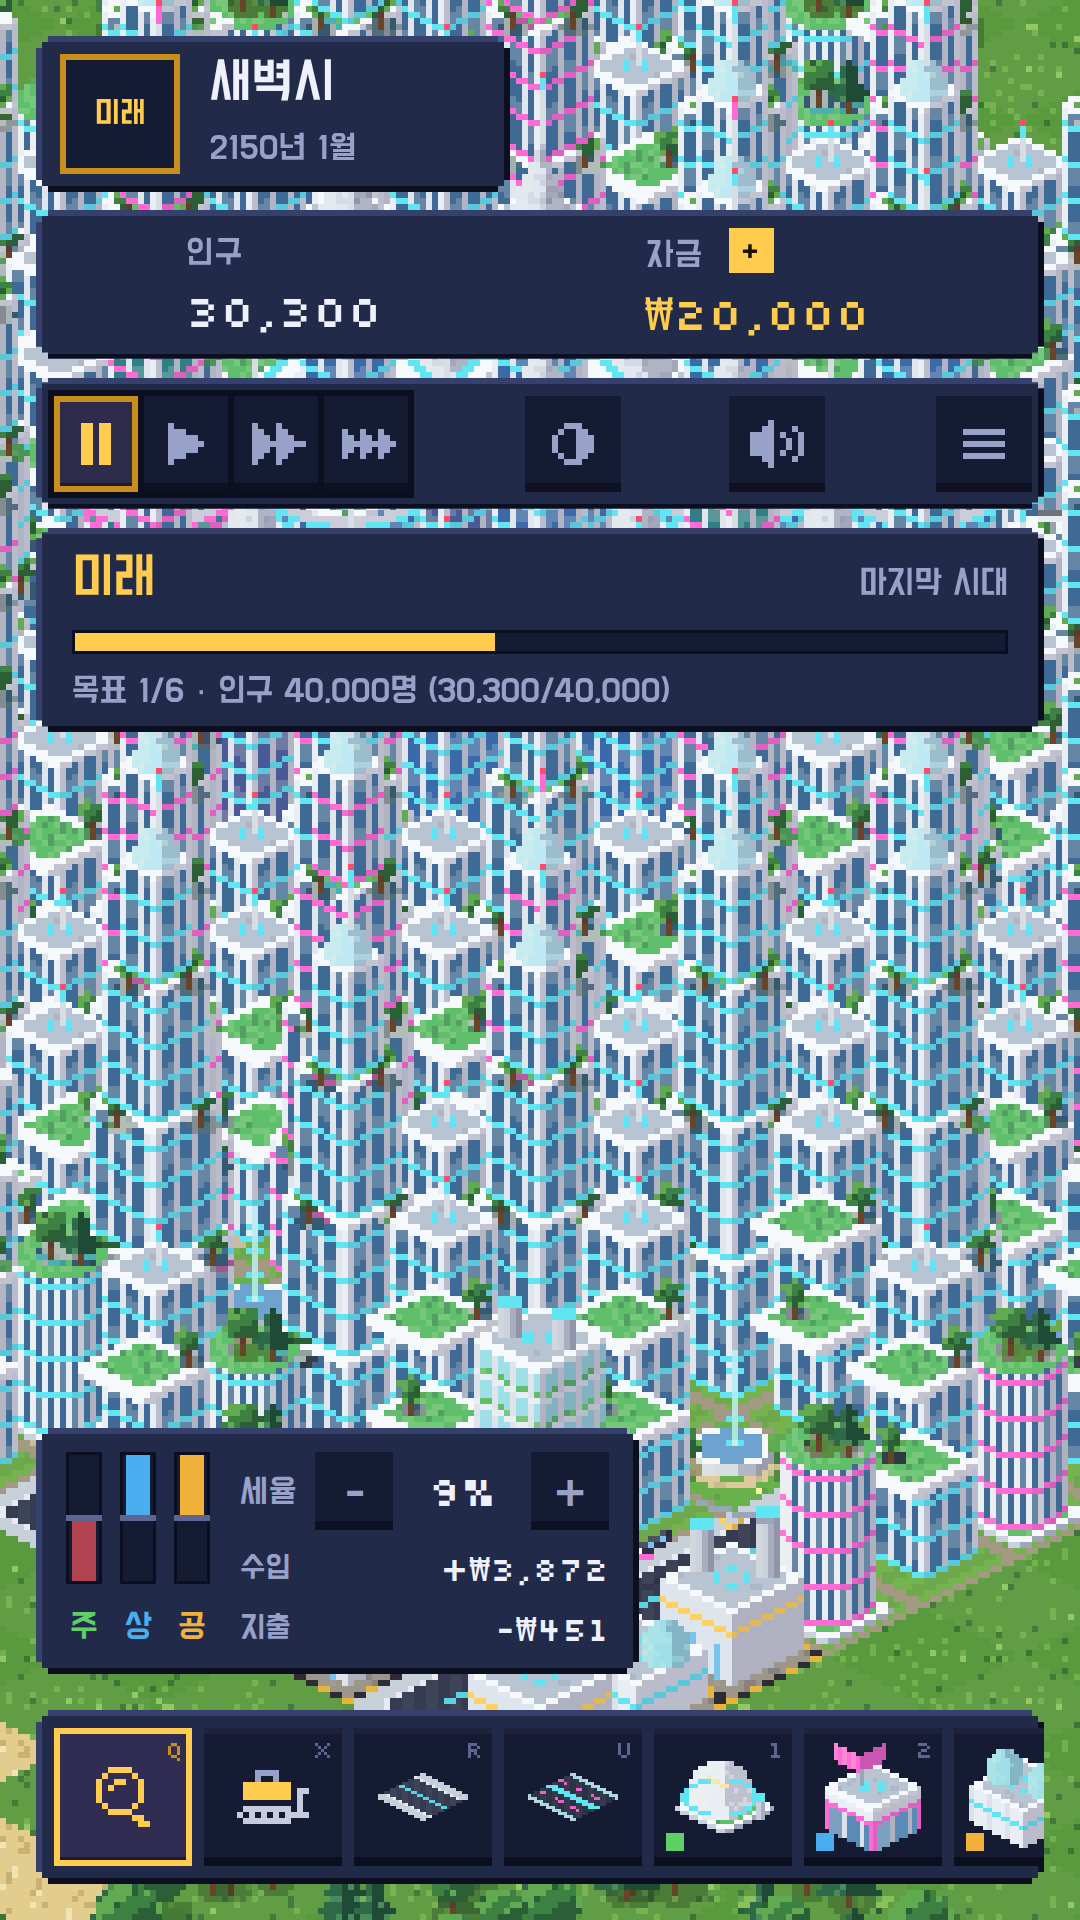
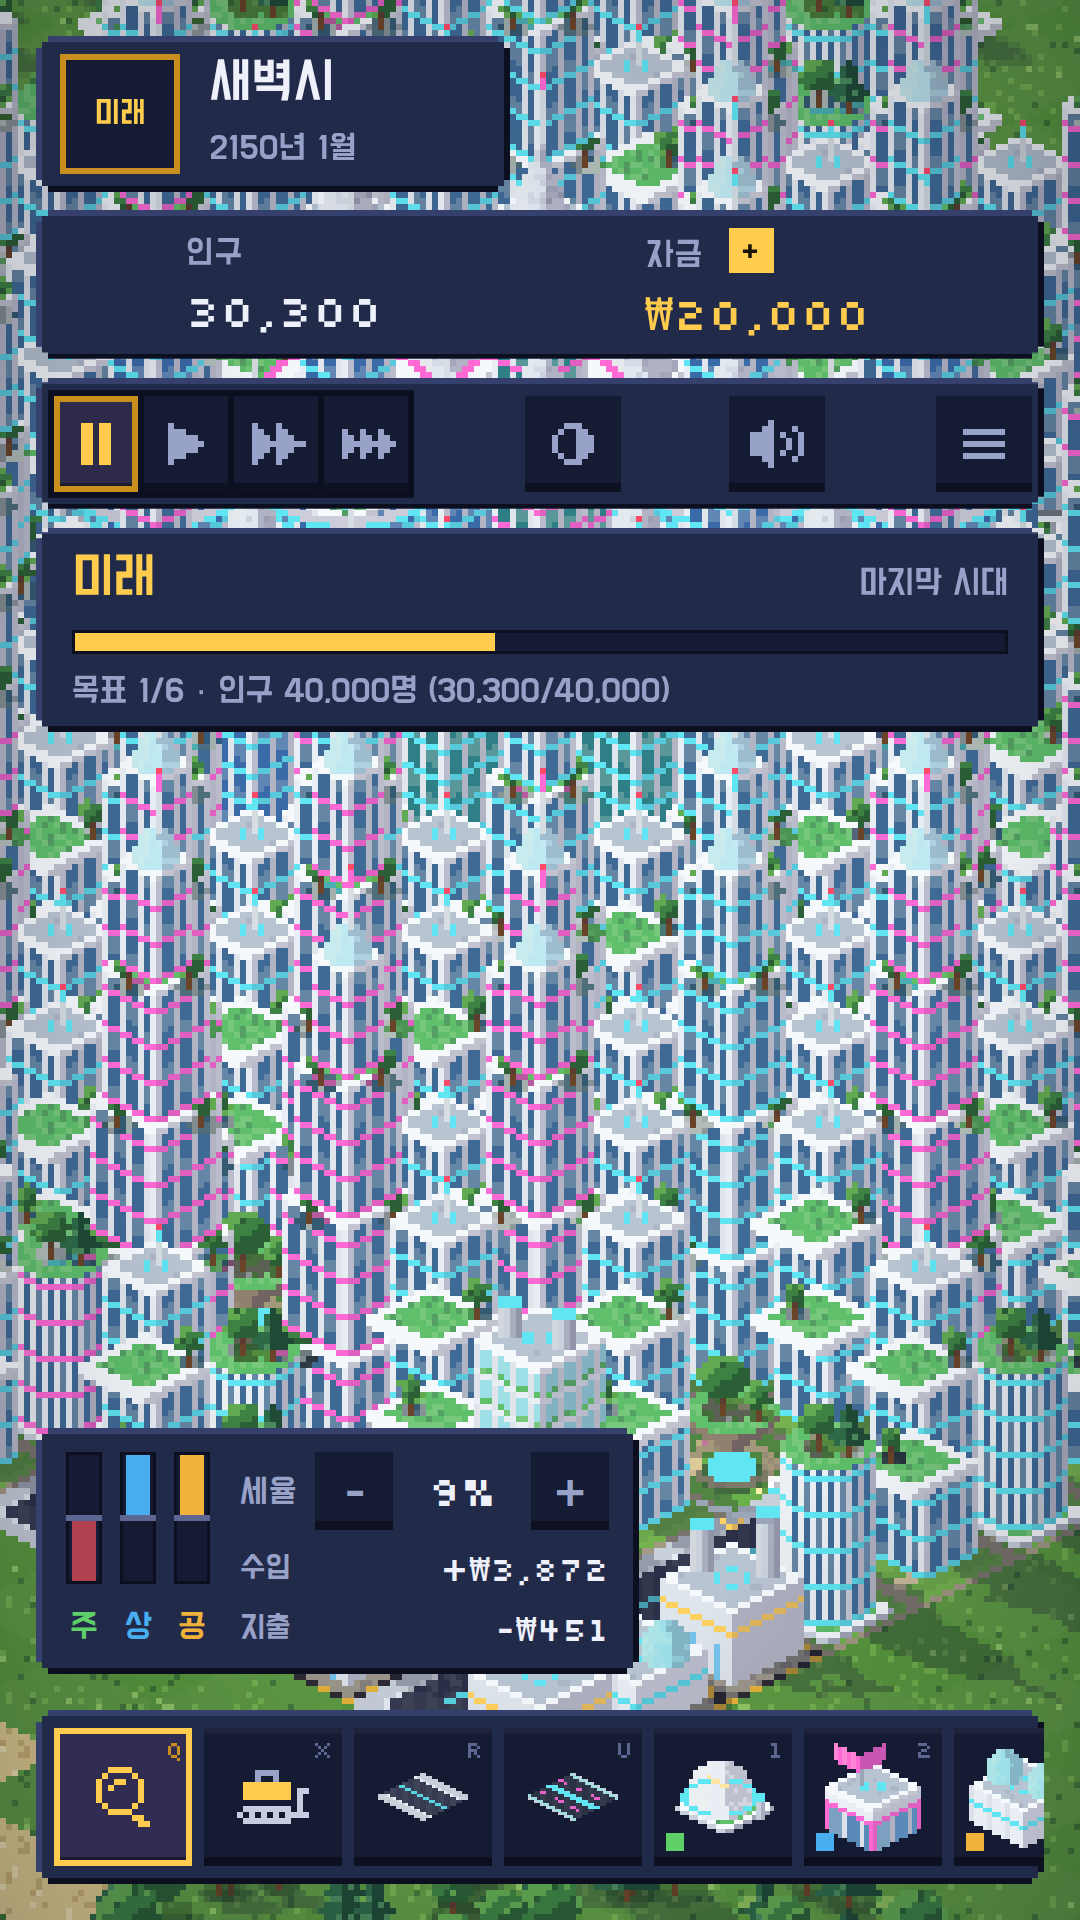
도트시티: 그림자·물 반짝임·나무 흔들림·구름 그림자·새·비네트 효과
Claude-Session: https://claude.ai/code/session_01XxvA4eUhsjPuZbBYtpabHX

diff --git a/dotcity/index.html b/dotcity/index.html
@@ -22,6 +22,7 @@
 [hidden]{display:none!important}
 html,body{height:100%}
 body{margin:0;overflow:hidden;background:var(--void);background-image:radial-gradient(120% 90% at 50% 38%,var(--sky-a),var(--sky-b) 70%);color:var(--ink);font-family:var(--f-ui);font-size:15px;-webkit-user-select:none;user-select:none;-webkit-tap-highlight-color:transparent}
+#vig{position:fixed;inset:0;pointer-events:none;background:radial-gradient(ellipse at center,rgba(10,12,32,0) 52%,rgba(10,12,32,.42) 100%)}
 #view{position:fixed;inset:0;width:100%;height:100%;display:block;touch-action:none;cursor:crosshair;image-rendering:pixelated}
 #view.pan{cursor:grab}
 #view.panning{cursor:grabbing}
@@ -228,7 +229,7 @@ button:focus-visible,input:focus-visible{outline:2px solid var(--gold);outline-o
 </head>
 <body>
 
-<canvas id="view" aria-label="도시 지도"></canvas>
+<canvas id="view" aria-label="도시 지도"></canvas><div id="vig" aria-hidden="true"></div>
 
 <header class="top">
   <section class="card city">
@@ -1743,11 +1744,48 @@ function drawTrainCar(c,tc){const sp=SP.train[Math.max(3,Math.min(5,tc.e))][tc.t
 function drawBoat(c,b){const gx=b.x+.5+DIRS[b.d][0]*b.t,gy=b.y+.5+DIRS[b.d][1]*b.t,sx=Math.round((gx-gy)*16-X0),sy=Math.round((gx+gy)*8-Y0+Math.sin(now/600+b.ph)*.6),sp=SP.boat[Math.min(5,b.e)][b.d&1];
   const bx=-DIRS[b.d][0],by=-DIRS[b.d][1],fx=(bx-by)*16,fy=(bx+by)*8;c.fillStyle=nightCss('#e2f3fb',nightF*.7,.55);   // wake behind the stern
   for(let k=1;k<=3;k++){const q=.12+k*.07,ox=Math.round(fx*q),oy=Math.round(fy*q);c.fillRect(sx+ox-k,sy+oy,1,1);c.fillRect(sx+ox+k,sy+oy,1,1);}
+  {const r=((now/110+b.ph*20)%14);c.fillStyle=nightCss('#e2f3fb',nightF*.7,.35*(1-r/14));for(let k=0;k<14;k++){const a=k/14*6.283;c.fillRect(Math.round(sx+Math.cos(a)*(r+4)),Math.round(sy+Math.sin(a)*(r+4)*.5),1,1);}}
   drawSpr(c,sp,sx,sy);emit(sp,sx,sy);}
+
+/* ---------------- sky: drifting cloud shadows and birds (drones in the future era) ---------------- */
+const clouds=[],birds=[],vig=document.getElementById('vig');
+function sky(c,lw,lh){const dt=Math.min(.1,frameDt),day=1-nightF;
+  if(!clouds.length)for(let k=0;k<5;k++)clouds.push({x:(Math.random()-.5)*N*32,y:Math.random()*N*16,r:50+Math.random()*60});
+  if(day>.05){c.globalCompositeOperation='source-atop';
+    for(const cl of clouds){cl.x+=dt*5;cl.y+=dt*1.5;if(cl.x>N*16+120){cl.x=-N*16-120;cl.y=Math.random()*N*16;}
+      const x=cl.x-X0,y=cl.y-Y0;if(x<-cl.r||y<-cl.r||x>lw+cl.r||y>lh+cl.r)continue;
+      c.save();c.translate(x,y);c.scale(1,.5);const g=c.createRadialGradient(0,0,0,0,0,cl.r);g.addColorStop(0,`rgba(20,26,60,${(.13*day).toFixed(3)})`);g.addColorStop(.6,`rgba(20,26,60,${(.08*day).toFixed(3)})`);g.addColorStop(1,'rgba(20,26,60,0)');
+      c.fillStyle=g;c.fillRect(-cl.r,-cl.r,cl.r*2,cl.r*2);c.restore();}
+    c.globalCompositeOperation='source-over';}
+  const fut=W.era>=5;
+  if(birds.length<(fut?2:1)&&Math.random()<dt*(fut?.3:.12)&&(fut||day>.5)){const n=fut?1:3+(Math.random()*3|0),y0=Y0+20+Math.random()*(lh-60),dir=Math.random()<.5?1:-1;
+    birds.push({x:dir>0?X0-20:X0+lw+20,y:y0,vx:dir*(fut?22:16+Math.random()*6),vy:(Math.random()-.5)*4,n,ph:Math.random()*9,fut});}
+  for(let k=birds.length-1;k>=0;k--){const b=birds[k];b.x+=b.vx*dt;b.y+=b.vy*dt;const bx=b.x-X0,by=b.y-Y0;if(bx<-60||bx>lw+60){birds.splice(k,1);continue;}
+    for(let j=0;j<b.n;j++){const ox=-Math.sign(b.vx)*(j>>1)*5*(j?1:0),oy=(j?(j&1?-1:1)*((j+1)>>1)*3:0),x=Math.round(bx+ox),y=Math.round(by+oy+Math.sin(now/400+j)*1.2);
+      if(b.fut){c.fillStyle=nightCss('#c9d2dc',nightF);c.fillRect(x-1,y,3,1);c.fillStyle=(now/300|0)%2?'#ff4a6a':'#5fe6f2';c.fillRect(x,y+1,1,1);continue;}
+      const up=((now/170|0)+j+(b.ph|0))%2;c.fillStyle=nightCss('#2b2d3a',nightF*.6);c.fillRect(x,y,1,1);c.fillRect(x-1,y-up,1,1);c.fillRect(x+1,y-up,1,1);
+      if(day>.3){c.fillStyle='rgba(18,22,48,.18)';c.fillRect(x+10,y+28,2,1);}}}}
 
 /* ---------------- render ---------------- */
 let X0=0,Y0=0;const visBuf=new Int32Array(N*N*3);let visN=0;
-function drawSpr(c,sp,x,y){c.drawImage(sp.c,x+sp.ox,y+sp.oy);if(nightF>.01&&sp.n){const a=c.globalAlpha;c.globalAlpha=a*nightF;c.drawImage(sp.n,x+sp.ox,y+sp.oy);c.globalAlpha=a;}}
+// cast shadows: each object sprite gets a ground shadow, its silhouette sheared away from a sun at the upper left.
+// sp.g is where the sprite meets the ground relative to its anchor (8 = tile centre for buildings, 0 for things placed at a point)
+let castSh=false,shA=0;
+function shadowOf(sp){if(sp.sh!==undefined)return sp.sh;const w=sp.w,h=sp.h,src=sp.c.getContext('2d').getImageData(0,0,w,h).data;
+  let bot=0;for(let i=3;i<src.length;i+=4)if(src[i]>60)bot=Math.max(bot,(i>>2)/w|0);
+  const base=sp.g!=null?sp.g-sp.oy:bot-Math.round(w/4),   // buildings: footprint centre sits a quarter of the sprite width above its lowest pixel
+    ext=Math.max(0,base),cw=w+Math.ceil(ext*.9)+2,ch=Math.max(h,base+Math.ceil(ext*.45)+2);
+  const cv=document.createElement('canvas');cv.width=cw;cv.height=ch;const g=cv.getContext('2d'),img=g.createImageData(cw,ch),d=img.data;let any=false;
+  for(let py=0;py<h;py++)for(let px=0;px<w;px++){if(src[(py*w+px)*4+3]<60)continue;const hh=base-py;let X=px,Y=py;if(hh>0){X=Math.round(px+hh*.9);Y=Math.round(base+hh*.45);}
+    if(X<0||Y<0||X>=cw||Y>=ch)continue;const o=(Y*cw+X)*4;d[o]=18;d[o+1]=22;d[o+2]=48;d[o+3]=255;any=true;}
+  g.putImageData(img,0,0);return sp.sh=any?{c:cv}:null;}
+// Shadows of things that stand still are gathered while the objects are drawn and painted next frame as one layer
+// (opaque into an offscreen canvas, then composited once), which is only redrawn when that set or the camera changes.
+let shRec=[],shHash=0,spIds=0,swayDX=0;const shCv=document.createElement('canvas'),shCx=shCv.getContext('2d');let shKey='';
+function drawSpr(c,sp,x,y){if(castSh&&shA>.01&&!sp.noSh){const sh=shadowOf(sp);if(sh){
+      if(sp.g===0&&!sp.still){const a=c.globalAlpha;c.globalAlpha=a*shA;c.drawImage(sh.c,x+sp.ox,y+sp.oy);c.globalAlpha=a;}   // moving things: inline
+      else{const wx=x-swayDX+sp.ox+X0,wy=y+sp.oy+Y0;shRec.push(sh.c,wx,wy);shHash=(Math.imul(shHash,31)+(sp.id||(sp.id=++spIds))*977+wx*7+wy*13)|0;}}}
+  c.drawImage(sp.c,x+sp.ox,y+sp.oy);if(nightF>.01&&sp.n){const a=c.globalAlpha;c.globalAlpha=a*nightF;c.drawImage(sp.n,x+sp.ox,y+sp.oy);c.globalAlpha=a;}}
 function groundOf(i,x,y){const w=W,k=w.kind[i],e=Math.min(5,w.te[i]),v=w.vari[i]&1;
   if(k===K.RAIL)return SP.rail[Math.max(3,e)][railMask(x,y)];
   if(k===K.ROAD){if(roadArea(x,y))return SP.lotR[e][roadMask(x,y)];return(w.level[i]&&e>=3?(e>=5?SP.aveF:SP.ave):e>=5?SP.roadF:e>=4?SP.road:SP.roadE[e])[roadDrawMask(x,y)];}
@@ -1774,7 +1812,9 @@ function render(){
     for(let x=xa;x<=xb;x++){const y=d-x,sx=(x-y)*16-X0;if(sx<-48||sx>lw+48)continue;visBuf[visN++]=y*N+x;visBuf[visN++]=sx;visBuf[visN++]=sy;}}
   // water, then land (+ lips + slab)
   for(let n=0;n<visN;n+=3){const i=visBuf[n],sx=visBuf[n+1],sy=visBuf[n+2];if(sy>lh||w.terrain[i]!==1)continue;
-    c.drawImage(SP.water[wf][w.lmask[i]].c,sx-16,sy);const x=i%N,y=i/N|0;if(x===N-1)c.drawImage(SP.slab.w[1].c,sx-16,sy);if(y===N-1)c.drawImage(SP.slab.w[0].c,sx-16,sy);}
+    c.drawImage(SP.water[wf][w.lmask[i]].c,sx-16,sy);const x=i%N,y=i/N|0;
+    {const gh=hash(x,y,91);if(gh<.4){const ph=(now/1900+gh*11)%1;if(ph<.2){const a=Math.sin(ph/.2*Math.PI)*(nightF>.5?.45:.8),gx=sx-7+((hash(x,y,92)*14)|0),gy=sy+5+((hash(x,y,93)*6)|0);
+      c.fillStyle=nightF>.5?`rgba(200,220,255,${a})`:`rgba(255,255,255,${a})`;c.fillRect(gx,gy,2,1);if(a>.55){c.fillRect(gx+2,gy,1,1);c.fillRect(gx-1,gy,1,1);}}}}if(x===N-1)c.drawImage(SP.slab.w[1].c,sx-16,sy);if(y===N-1)c.drawImage(SP.slab.w[0].c,sx-16,sy);}
   for(let n=0;n<visN;n+=3){const i=visBuf[n],sx=visBuf[n+1],sy=visBuf[n+2];if(sy>lh||w.terrain[i]===1)continue;const x=i%N,y=i/N|0;
     c.drawImage(groundOf(i,x,y).c,sx-16,sy);if(w.rail[i]&&w.kind[i]===K.ROAD)c.drawImage(SP.railX[Math.max(3,Math.min(5,w.te[i]))][(railMask(x,y)&5)?0:1].c,sx-16,sy);const m=w.wmask[i];if(m&1)c.drawImage(SP.lipR.c,sx-16,sy);if(m&2)c.drawImage(SP.lipL.c,sx-16,sy);
     const t=w.terrain[i]===2?'s':'g';if(x===N-1)c.drawImage(SP.slab[t][1].c,sx-16,sy);if(y===N-1)c.drawImage(SP.slab[t][0].c,sx-16,sy);}
@@ -1803,7 +1843,12 @@ function render(){
   const tbk=new Map();for(const tr of trains)for(const tc of trainCars(tr)){const k=idx(Math.floor(tc.gx),Math.floor(tc.gy));let a=tbk.get(k);if(!a)tbk.set(k,a=[]);a.push(tc);}
   const bbk=new Map();for(const b of boats){const k=idx(Math.floor(b.x+.5+DIRS[b.d][0]*b.t),Math.floor(b.y+.5+DIRS[b.d][1]*b.t));let a=bbk.get(k);if(!a)bbk.set(k,a=[]);a.push(b);}
   const bucket=new Map();for(const car of cars){const gx=car.x+.5+DIRS[car.d][0]*car.t,gy=car.y+.5+DIRS[car.d][1]*car.t;const k=idx(Math.floor(gx),Math.floor(gy));let a=bucket.get(k);if(!a)bucket.set(k,a=[]);a.push(car);}
-  const oa=overlay?.28:1;c.globalAlpha=oa;const blinkOn=(now/520|0)%2===0;
+  const oa=overlay?.28:1;c.globalAlpha=oa;const blinkOn=(now/520|0)%2===0;castSh=!overlay;shA=.28*(1-nightF)*(1-.4*duskF);
+  if(castSh&&shA>.01&&shRec.length){const key=shHash+'|'+X0+'|'+Y0+'|'+lw+'|'+lh;
+    if(key!==shKey){shKey=key;if(shCv.width!==lw||shCv.height!==lh){shCv.width=lw;shCv.height=lh;}else shCx.clearRect(0,0,lw,lh);
+      for(let n=0;n<shRec.length;n+=3)shCx.drawImage(shRec[n],shRec[n+1]-X0,shRec[n+2]-Y0);}
+    c.globalAlpha=shA;c.drawImage(shCv,0,0);c.globalAlpha=oa;}
+  shRec=[];shHash=0;
   for(let n=0;n<visN;n+=3){const i=visBuf[n],sx=visBuf[n+1],sy=visBuf[n+2],x=i%N,y=i/N|0,k=w.kind[i];
     const bs=bbk.get(i);if(bs)for(const b of bs)drawBoat(c,b);
     const ts=tbk.get(i);if(ts)for(const tc of ts)drawTrainCar(c,tc);
@@ -1811,7 +1856,7 @@ function render(){
     if(k===K.ROAD){if(w.terrain[i]===1){const e=Math.min(5,w.te[i]),ga=c.globalAlpha;c.globalAlpha=1;drawSpr(c,(w.level[i]?SP.bridgeA[Math.max(3,e)]:SP.bridge[e])[bridgeKey(x,y)],sx,sy);c.globalAlpha=ga;}
       const cs=bucket.get(i);if(cs)for(const car of cs)drawCar(c,car);continue;}
     if(k===K.NONE){const t=w.trees[i];if(t){const pts=[];for(let j=0;j<t;j++)pts.push([.2+.6*hash(x,y,j*3+1),.2+.6*hash(x,y,j*3+2),(hash(x,y,j+40)*SP.tree.length)|0]);
-        pts.sort((a,b)=>a[0]+a[1]-b[0]-b[1]);for(const[u,v,s]of pts)drawSpr(c,SP.tree[s],sx+(u-v)*16,sy+(u+v)*8);}}
+        pts.sort((a,b)=>a[0]+a[1]-b[0]-b[1]);const sw=Math.round(Math.sin(now/1700+x*.9+y*.45)*.75);for(const[u,v,s]of pts){swayDX=s&1?sw:0;drawSpr(c,SP.tree[s],sx+(u-v)*16+swayDX,sy+(u+v)*8);}swayDX=0;}}
     else if(k>=K.RES&&k<=K.IND){const L=w.level[i];let sp=null;const ba=L>=2&&!w.build[i]?bigAt(x,y):-1;
       if(ba>=0){if(i===ba+N+1){const ax=ba%N,ay=ba/N|0,asx=(ax-ay)*16-X0,asy=(ax+ay)*8-Y0,spb=bigSprite(ba);drawSpr(c,spb,asx,asy);emit(spb,asx,asy);extras(c,spb,asx,asy,blinkOn);}}
       else if(w.build[i]>0){sp=w.te[i]<3?SP.consOld:SP.cons;drawSpr(c,sp,sx,sy);}
@@ -1828,7 +1873,7 @@ function render(){
     else if(k>=K.COAL){const a=w.anchor[i],sz=sizeOf(k);if(a>=0&&i===a+(sz-1)*(N+1)){const ax=a%N,ay=a/N|0,asx=(ax-ay)*16-X0,asy=(ax+ay)*8-Y0,sp=civSprite(k,w.te[a]);if(w.wb&&w.wb.a===a){const ga=c.globalAlpha;c.globalAlpha=ga*(.25+.5*wbFrac());drawSpr(c,sp,asx,asy);c.globalAlpha=ga;const cs2=w.era<3?SP.consOld:SP.cons;for(const[dx,dy]of[[0,0],[1,0],[0,1],[1,1]])drawSpr(c,cs2,asx+(dx-dy)*16,asy+(dx+dy)*8);}else{drawSpr(c,sp,asx,asy);emit(sp,asx,asy);extras(c,sp,asx,asy,blinkOn);}}}
     if(w.fire[i])flames(c,i,sx,sy);
     const cs=bucket.get(i);if(cs)for(const car of cs)drawCar(c,car);}
-  c.globalAlpha=1;
+  c.globalAlpha=1;castSh=false;
   if(ghost){const[x,y]=ghost,sp=tl.kind&&tl.kind>=K.POLICE?civSprite(tl.kind,W.era):null;
     if(sp){c.globalAlpha=.72;drawSpr(c,sp,(x-y)*16-X0,(x+y)*8-Y0);c.globalAlpha=1;}}
   // particles
@@ -1838,6 +1883,7 @@ function render(){
     c.fillStyle=p.kind==='soot'?nightCss('#3a3438',nightF*.5,(1-t)*.8):p.kind==='steam'?nightCss('#f4f6f8',nightF*.8,(1-t)*.75):p.kind==='smoke'?nightCss('#8e9096',nightF*.8,(1-t)*.7):nightCss(p.c,nightF,(1-t));
     c.globalAlpha=1;c.fillRect(px-(sz>>1),py-(sz>>1),sz,sz);}
   c.globalAlpha=1;
+  sky(c,lw,lh);
   // the picked tile's edge and pin go on top of trees and buildings
   if(target){const[x,y]=target.g,ok=validAt(tl,x,y)&&costAt(tl,x,y)<=W.funds,sz=tl.size||1;
     for(let dy=0;dy<sz;dy++)for(let dx=0;dx<sz;dx++)if(inb(x+dx,y+dy))tileSp(SP.tgt.edge,x+dx,y+dy);
@@ -1847,6 +1893,7 @@ function render(){
     for(let r=0;r<6;r++){const w=11-2*r;row(r+1,-Math.floor(w/2),w,'#1a1404');if(w>2)row(r+1,-Math.floor(w/2)+1,w-2,fc);}
     c.fillStyle='#ffffff';c.fillRect(bx-2,by-4,2,2);}
   if(duskF>.01){c.globalCompositeOperation='source-atop';c.fillStyle=`rgba(255,128,70,${.16*duskF})`;c.fillRect(0,0,lw,lh);c.globalCompositeOperation='source-over';}
+  {const vo=(.62+.38*nightF).toFixed(2);if(vig.dataset.o!==vo){vig.dataset.o=vo;vig.style.opacity=vo;}}   // soft vignette (a CSS layer, free to draw)
   vctx.imageSmoothingEnabled=false;vctx.clearRect(0,0,view.width,view.height);vctx.drawImage(wc,Math.round(-fx*s),Math.round(-fy*s),lw*s,lh*s);}
 const SPK={[K.POLICE]:()=>SP.police,[K.WIND]:()=>SP.wind,[K.COAL]:()=>SP.coal,[K.FIRE]:()=>SP.fire,[K.SCHOOL]:()=>SP.school,[K.HALL]:()=>SP.hall,[K.STADIUM]:()=>SP.stadium,[K.TOWER]:()=>SP.tower};
 function civSprite(k,e){e=Math.min(5,e);if(k===K.HOSP)return SP.hosp[e];if(k===K.PORT)return SP.port[e];if(k===K.DEPOT)return SP.depot[Math.max(3,e)];if(k===K.ELEV)return SP.elev;if(k===K.COAL&&e>=5)return SP.fusion;
@@ -2149,6 +2196,8 @@ function newGame(mode){W=blankWorld((Math.random()*1e9)|0);genTerrain(W);cars=[]
   if(mode==='modern')toast('현대 도시 샌드박스입니다.','info');else showEra(false);
   if(mode==='empty')toast('빈 땅이에요. 먼저 모닥불(6)을 피우고, 그 5칸 안에 흙길(R)과 움집 터(1)를 놓으세요.','info');}
 function start(data){resize();buildSprites();
+  for(const sp of SP.tree){sp.g=0;sp.still=true;}for(const set of[SP.car,...SP.veh,...SP.boat])for(const a of set)for(const sp of[].concat(a))sp.g=0;
+  for(const e of SP.train)if(e)for(const t of e)for(const sp of t)sp.g=0;for(const set of[...SP.bridge,...SP.bridgeA])if(set)for(const sp of set)sp.noSh=true;
   let loaded=false;
   try{const s=data&&data.save||localStorage.getItem(KEY);if(s){W=deserialize(s);recompute();loaded=true;}}catch(e){W=null;}
   if(!loaded){W=blankWorld((Math.random()*1e9)|0);genTerrain(W);starterStone();save();}
